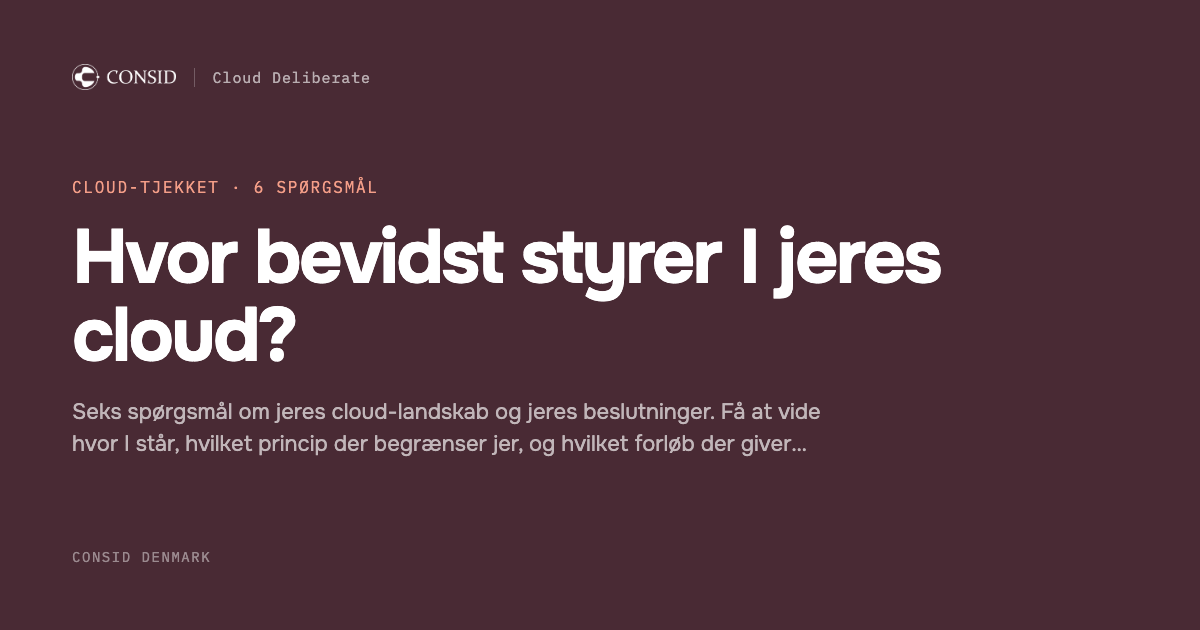
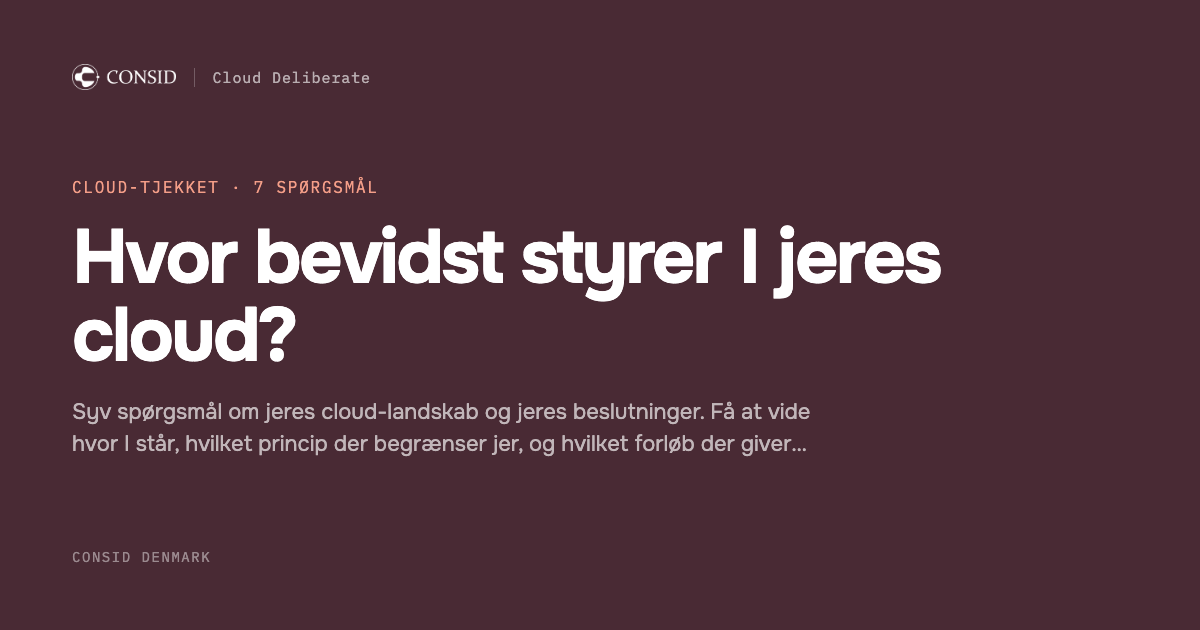
Ask which cloud platforms they run, as the first step of the tjek
A new multi-select step opens the flow: Azure, AWS, Google Cloud,
private/hosted, other providers, and "Ingen, vi kører ikke i cloud
endnu". It is not scored. Which platforms a team runs says nothing
about how deliberate they are, but it segments the lead and it catches
the ones who have not started, who answer everything else differently.

"Ingen" is mutually exclusive with the rest in both directions, and
because a team with no cloud has no landscape to overskue, the
Workshop result gets its own wording for them.

Scoring now selects answers by axis rather than by slice position,
since index 0 is no longer a scored question. Multi-select uses real
checkboxes for keyboard and screen-reader semantics, toggling syncs
in place rather than re-rendering so focus stays on the box, and the
step needs a Videre button because a multi-select cannot know when
you are done.

Platforms move out of the lead form, where they were free text, into
the payload as an array plus a uses_cloud boolean.

Changed region(s): [[0.0617, 0.6333, 0.6783, 0.6937]]

diff --git a/assets/tjek.js b/assets/tjek.js
@@ -36,6 +36,26 @@
 
   const QUESTIONS = [
     {
+      // Not scored. Which platforms a team runs says nothing about how
+      // deliberate they are, but it segments the lead and it catches the
+      // ones who have not started yet, who answer the rest differently.
+      type: 'multi',
+      axis: null,
+      text: 'Hvilke cloud-platforme bruger I i dag?',
+      hint: 'Vælg alle der passer.',
+      options: [
+        'Microsoft Azure',
+        'Amazon Web Services',
+        'Google Cloud',
+        'Privat eller hosted cloud, fx VMware eller OpenStack',
+        'Andre udbydere, fx Oracle eller IBM',
+        'Ingen, vi kører ikke i cloud endnu'
+      ],
+      // The last option contradicts every other one, so picking it clears
+      // the rest and picking any other clears it.
+      exclusive: 5
+    },
+    {
       axis: 'eksponering',
       text: 'Hvor stor en del af jeres it-landskab kører i public cloud i dag?',
       options: [
@@ -128,6 +148,9 @@
       quadrant: 'Begrænset eksponering, få bevidste valg',
       title: 'I er tidligt nok til at sætte kursen billigt',
       body: 'Jeres cloud-landskab er stadig til at overskue. Det er det bedste tidspunkt at blive enige om, hvordan beslutningerne skal træffes, mens det koster timer frem for migreringer.',
+      // Someone who has not started at all has no landscape to overskue,
+      // so the same recommendation needs different words.
+      bodyUdenCloud: 'I er ikke begyndt endnu, og det er den billigste plads at træffe beslutningerne fra. I kan nå at blive enige om, hvad der skal i cloud, hvad der ikke skal, og hvordan I vil afgøre det, før der ligger noget I skal flytte igen.',
       ydelse: { navn: 'Cloud Deliberate Arkitektur-workshop', timer: '14 timer', href: '../ydelser/arkitektur-workshop.html' }
     },
     ingen: {
@@ -140,9 +163,16 @@
 
   const AXIS_LABELS = ['Lav', 'Begrænset', 'Betydelig', 'Høj'];
 
+  // Selected by axis, not by position: the platform step sits at index 0
+  // and is not scored, so slicing would quietly shift every axis by one.
+  const onAxis = (answers, axis) => QUESTIONS
+    .map((q, i) => ({ q, a: answers[i] }))
+    .filter(x => x.q.axis === axis);
+
   function computeScores(answers) {
-    const exposure = answers.slice(0, 2);
-    const aware = answers.slice(2, 6);
+    const exposure = onAxis(answers, 'eksponering').map(x => x.a);
+    const awareQs = onAxis(answers, 'bevidsthed');
+    const aware = awareQs.map(x => x.a);
     // Exposure is a plain reading of scale, so it rounds. Deliberateness
     // floors: a team is only as deliberate as the practice it is weakest
     // at, and a flattering score here would waste everyone's meeting.
@@ -150,16 +180,18 @@
     const bevidsthed = Math.floor(aware.reduce((a, b) => a + b, 0) / aware.length);
 
     const lowest = Math.min.apply(null, aware);
-    const candidates = QUESTIONS.slice(2, 6)
-      .filter((q, i) => aware[i] === lowest)
-      .map(q => q.principle);
+    const candidates = awareQs.filter(x => x.a === lowest).map(x => x.q.principle);
     const limiting = PRINCIPLE_PRIORITY.filter(p => candidates.indexOf(p) !== -1)[0] || candidates[0] || null;
 
     let key;
     if (eksponering >= 2) key = bevidsthed >= 2 ? 'enablement' : 'assessment';
     else key = bevidsthed >= 2 ? 'ingen' : 'workshop';
 
-    return { eksponering, bevidsthed, limiting, key };
+    const platformQ = QUESTIONS.findIndex(q => q.type === 'multi');
+    const platforms = answers[platformQ].map(idx => QUESTIONS[platformQ].options[idx]);
+    const udenCloud = answers[platformQ].indexOf(QUESTIONS[platformQ].exclusive) !== -1;
+
+    return { eksponering, bevidsthed, limiting, key, platforms, udenCloud };
   }
 
   /* ---- Stage machine -------------------------------------------------- */
@@ -176,49 +208,98 @@
   /* ---- Quiz ------------------------------------------------------------ */
 
   let current = 0;
-  const answers = QUESTIONS.map(() => null);
+  const answers = QUESTIONS.map(q => q.type === 'multi' ? [] : null);
   const progressLab = document.getElementById('tjek-progress');
   const barFill = document.getElementById('tjek-bar');
   const backBtn = document.getElementById('tjek-back');
   const questionEl = document.getElementById('tjek-question');
+  const hintEl = document.getElementById('tjek-hint');
   const optionsEl = document.getElementById('tjek-options');
+  const nextBtn = document.getElementById('tjek-next');
+
+  const advance = () => {
+    if (current === QUESTIONS.length - 1) finishQuiz();
+    else { current += 1; renderQuestion(current); }
+  };
 
   function renderQuestion(i) {
     const q = QUESTIONS[i];
+    const multi = q.type === 'multi';
     progressLab.textContent = 'Spørgsmål ' + (i + 1) + ' af ' + QUESTIONS.length;
     barFill.style.width = ((i + 1) / QUESTIONS.length * 100) + '%';
     barFill.parentElement.setAttribute('aria-valuenow', String(i + 1));
     backBtn.hidden = i === 0;
     questionEl.textContent = q.text;
+    hintEl.textContent = q.hint || '';
+    hintEl.hidden = !q.hint;
     optionsEl.innerHTML = '';
+
     q.options.forEach((opt, idx) => {
-      const b = document.createElement('button');
-      b.type = 'button';
-      b.className = 'tjek__opt' + (answers[i] === idx ? ' is-selected' : '');
-      b.setAttribute('aria-pressed', String(answers[i] === idx));
-      const lab = document.createElement('span');
-      lab.className = 'tjek__opt__lab';
-      lab.textContent = ['A', 'B', 'C', 'D'][idx];
-      const txt = document.createElement('span');
-      txt.textContent = opt;
-      b.append(lab, txt);
-      b.addEventListener('click', () => selectAnswer(idx));
-      optionsEl.appendChild(b);
+      if (multi) {
+        const chosen = answers[i].indexOf(idx) !== -1;
+        const l = document.createElement('label');
+        l.className = 'tjek__opt tjek__opt--multi' + (chosen ? ' is-selected' : '');
+        const cb = document.createElement('input');
+        cb.type = 'checkbox';
+        cb.checked = chosen;
+        cb.value = String(idx);
+        const txt = document.createElement('span');
+        txt.textContent = opt;
+        l.append(cb, txt);
+        cb.addEventListener('change', () => toggleMulti(idx, cb.checked));
+        optionsEl.appendChild(l);
+      } else {
+        const b = document.createElement('button');
+        b.type = 'button';
+        b.className = 'tjek__opt' + (answers[i] === idx ? ' is-selected' : '');
+        b.setAttribute('aria-pressed', String(answers[i] === idx));
+        const lab = document.createElement('span');
+        lab.className = 'tjek__opt__lab';
+        lab.textContent = ['A', 'B', 'C', 'D'][idx];
+        const txt = document.createElement('span');
+        txt.textContent = opt;
+        b.append(lab, txt);
+        b.addEventListener('click', () => selectAnswer(idx));
+        optionsEl.appendChild(b);
+      }
     });
+
+    // A single-choice answer advances on its own. A multi-select cannot
+    // know when you are finished, so it needs a button.
+    nextBtn.hidden = !multi;
+    if (multi) nextBtn.disabled = answers[i].length === 0;
     questionEl.focus();
+  }
+
+  function toggleMulti(idx, checked) {
+    const q = QUESTIONS[current];
+    let picked = answers[current];
+    if (checked) {
+      // "Ingen" contradicts the rest, so it clears them and they clear it.
+      picked = idx === q.exclusive ? [idx] : picked.filter(x => x !== q.exclusive).concat(idx);
+    } else {
+      picked = picked.filter(x => x !== idx);
+    }
+    answers[current] = picked.sort((a, b) => a - b);
+    // Sync in place instead of re-rendering: a full render would move
+    // focus to the question heading, so a keyboard user would lose their
+    // place in the list on every tick.
+    [].forEach.call(optionsEl.children, (l, i) => {
+      const on = answers[current].indexOf(i) !== -1;
+      l.querySelector('input').checked = on;
+      l.classList.toggle('is-selected', on);
+    });
+    nextBtn.disabled = answers[current].length === 0;
   }
 
   function selectAnswer(score) {
     answers[current] = score;
     renderQuestion(current);
-    const advance = () => {
-      if (current === QUESTIONS.length - 1) finishQuiz();
-      else { current += 1; renderQuestion(current); }
-    };
     // A beat so the chosen answer registers before the question changes.
     if (REDUCED_TJEK) advance(); else setTimeout(advance, 190);
   }
 
+  nextBtn.addEventListener('click', () => { if (!nextBtn.disabled) advance(); });
   backBtn.addEventListener('click', () => { if (current > 0) { current -= 1; renderQuestion(current); } });
   document.getElementById('tjek-start').addEventListener('click', () => {
     current = 0;
@@ -233,10 +314,11 @@
   function finishQuiz() {
     scores = computeScores(answers);
     const r = RESULTS[scores.key];
+    const body = (scores.udenCloud && r.bodyUdenCloud) || r.body;
 
     root.querySelector('[data-quad]').textContent = r.quadrant;
     root.querySelector('[data-result-title]').textContent = r.title;
-    root.querySelector('[data-result-body]').textContent = r.body;
+    root.querySelector('[data-result-body]').textContent = body;
     root.querySelector('[data-axis-eksponering]').textContent = AXIS_LABELS[scores.eksponering];
     root.querySelector('[data-axis-bevidsthed]').textContent = AXIS_LABELS[scores.bevidsthed];
 
@@ -273,7 +355,7 @@
   root.querySelector('[data-to-form]').addEventListener('click', () => showStage('form'));
   root.querySelector('[data-restart]').addEventListener('click', () => {
     current = 0;
-    answers.fill(null);
+    QUESTIONS.forEach((q, i) => { answers[i] = q.type === 'multi' ? [] : null; });
     renderQuestion(0);
     showStage('quiz');
   });
@@ -284,8 +366,12 @@
   const errEl = document.getElementById('tjek-error');
   const submitBtn = document.getElementById('tjek-submit');
 
+  const answerText = (q, a) => {
+    if (q.type === 'multi') return a.length ? a.map(idx => q.options[idx]).join(', ') : '(ingen valgt)';
+    return a === null ? '(ubesvaret)' : q.options[a];
+  };
   const answerLines = () => QUESTIONS.map((q, i) =>
-    (i + 1) + '. ' + q.text + '\n   → ' + (answers[i] === null ? '(ubesvaret)' : q.options[answers[i]])).join('\n');
+    (i + 1) + '. ' + q.text + '\n   → ' + answerText(q, answers[i])).join('\n');
 
   function buildPayload() {
     const v = id => (document.getElementById(id).value || '').trim();
@@ -293,7 +379,8 @@
       company: v('tj-company'),
       role: v('tj-role'),
       cloud_spend: document.getElementById('tj-spend').value,
-      platforms: v('tj-platforms'),
+      platforms: scores.platforms,        // from the flow, not the form
+      uses_cloud: !scores.udenCloud,
       biggest_challenge: v('tj-challenge'),
       conversation_value: v('tj-value'),
       email: v('tj-email'),
@@ -320,7 +407,7 @@
       'Rolle: ' + (p.role || '—'),
       'E-mail: ' + p.email,
       'Cloud-forbrug: ' + p.cloud_spend,
-      'Platforme: ' + (p.platforms || '—'),
+      'Platforme: ' + (p.platforms.length ? p.platforms.join(', ') : '—'),
       'Største udfordring: ' + (p.biggest_challenge || '—'),
       'Hvad gør samtalen værdifuld: ' + (p.conversation_value || '—'),
       '',

diff --git a/cloud-tjek/index.html b/cloud-tjek/index.html
@@ -3,7 +3,7 @@
 <head>
 <meta charset="utf-8">
 <title>Cloud-tjekket — Cloud Deliberate — Consid</title>
-<meta name="description" content="Seks spørgsmål om jeres cloud-landskab og jeres beslutninger. Få at vide hvor I står, hvilket princip der begrænser jer, og hvilket forløb der giver mening. Under to minutter.">
+<meta name="description" content="Syv spørgsmål om jeres cloud-landskab og jeres beslutninger. Få at vide hvor I står, hvilket princip der begrænser jer, og hvilket forløb der giver mening. Under to minutter.">
 <meta name="viewport" content="width=device-width, initial-scale=1">
 <meta name="robots" content="noindex,nofollow">
 <link rel="canonical" href="https://frijec.github.io/cloud-deliberate/cloud-tjek/">
@@ -12,7 +12,7 @@
 <meta property="og:type" content="website">
 <meta property="og:site_name" content="Consid">
 <meta property="og:title" content="Cloud-tjekket — Cloud Deliberate — Consid">
-<meta property="og:description" content="Seks spørgsmål om jeres cloud-landskab og jeres beslutninger. Få at vide hvor I står, hvilket princip der begrænser jer, og hvilket forløb der giver mening. Under to minutter.">
+<meta property="og:description" content="Syv spørgsmål om jeres cloud-landskab og jeres beslutninger. Få at vide hvor I står, hvilket princip der begrænser jer, og hvilket forløb der giver mening. Under to minutter.">
 <meta property="og:url" content="https://frijec.github.io/cloud-deliberate/cloud-tjek/">
 <meta property="og:image" content="https://frijec.github.io/cloud-deliberate/assets/og/cloud-tjek.png">
 <meta property="og:image:width" content="1200">
@@ -21,7 +21,7 @@
 <meta property="og:locale" content="da_DK">
 <meta name="twitter:card" content="summary_large_image">
 <meta name="twitter:title" content="Cloud-tjekket — Cloud Deliberate — Consid">
-<meta name="twitter:description" content="Seks spørgsmål om jeres cloud-landskab og jeres beslutninger. Få at vide hvor I står, hvilket princip der begrænser jer, og hvilket forløb der giver mening. Under to minutter.">
+<meta name="twitter:description" content="Syv spørgsmål om jeres cloud-landskab og jeres beslutninger. Få at vide hvor I står, hvilket princip der begrænser jer, og hvilket forløb der giver mening. Under to minutter.">
 <meta name="twitter:image" content="https://frijec.github.io/cloud-deliberate/assets/og/cloud-tjek.png">
 <link rel="preconnect" href="https://fonts.googleapis.com">
 <link rel="preconnect" href="https://fonts.gstatic.com" crossorigin>
@@ -49,7 +49,7 @@
   <div class="wrap wrap--narrow">
     <a class="backlink backlink--light reveal" href="../#top"><span class="arw">←</span> Forsiden</a>
     <h1 class="reveal" style="font-size:var(--t-h2);max-width:20ch;margin-top:var(--s-5)">Hvor bevidst styrer I jeres cloud?</h1>
-    <p class="lead reveal" style="margin-top:var(--s-5)">Seks spørgsmål om jeres landskab og jeres beslutninger. I får at vide, hvad der begrænser jer lige nu, og hvilket forløb der giver mening. Det tager under to minutter.</p>
+    <p class="lead reveal" style="margin-top:var(--s-5)">Syv spørgsmål om jeres landskab og jeres beslutninger. I får at vide, hvad der begrænser jer lige nu, og hvilket forløb der giver mening. Det tager under to minutter.</p>
 
     <div id="tjek">
 
@@ -74,12 +74,16 @@
            whole stage a second time. -->
       <section class="tjek-stage" data-stage="quiz">
         <div class="tjek__head">
-          <span class="mono" id="tjek-progress">Spørgsmål 1 af 6</span>
+          <span class="mono" id="tjek-progress">Spørgsmål 1 af 7</span>
           <button class="tjek__back" type="button" id="tjek-back" hidden><span class="arw">←</span> Tilbage</button>
         </div>
-        <div class="tjek__bar" role="progressbar" aria-valuemin="1" aria-valuemax="6" aria-valuenow="1" aria-label="Fremdrift"><span id="tjek-bar"></span></div>
+        <div class="tjek__bar" role="progressbar" aria-valuemin="1" aria-valuemax="7" aria-valuenow="1" aria-label="Fremdrift"><span id="tjek-bar"></span></div>
         <h2 class="tjek__q" id="tjek-question" data-focus tabindex="-1"></h2>
+        <p class="tjek__hint" id="tjek-hint" hidden></p>
         <div class="tjek__opts" id="tjek-options"></div>
+        <div class="tjek-actions">
+          <button class="btn btn--primary" type="button" id="tjek-next" hidden>Videre <span class="arw">→</span></button>
+        </div>
       </section>
 
       <!-- 3. RESULT -->
@@ -147,7 +151,6 @@
                 <option value="Over 20 mio. kr.">Over 20 mio. kr.</option>
               </select>
             </div>
-            <div class="field field--full"><label for="tj-platforms">Hvilke cloud-platforme bruger I i dag?</label><textarea id="tj-platforms" name="platforms" rows="2" maxlength="2000"></textarea></div>
             <div class="field field--full"><label for="tj-challenge">Største cloud-udfordring lige nu</label><textarea id="tj-challenge" name="biggest_challenge" rows="3" maxlength="2000"></textarea></div>
             <div class="field field--full"><label for="tj-value">Hvad ville gøre en samtale værdifuld for jer?</label><textarea id="tj-value" name="conversation_value" rows="3" maxlength="2000"></textarea></div>
             <div class="field field--full"><label for="tj-email">Arbejds-e-mail<abbr title="påkrævet">*</abbr></label><input id="tj-email" name="email" type="email" autocomplete="email" maxlength="255" required></div>

diff --git a/assets/site.css b/assets/site.css
@@ -768,6 +768,7 @@ button{font:inherit;color:inherit;background:none;border:0;cursor:pointer}
 .tjek__q{font-size:clamp(1.35rem,2.6vw,2rem);letter-spacing:-.03em;font-weight:500;
   margin-top:var(--s-6);max-width:26ch}
 .tjek__q:focus-visible{outline:none}
+.tjek__hint{margin-top:var(--s-3);font-size:var(--t-small);color:var(--graphite)}
 .tjek__opts{display:flex;flex-direction:column;gap:var(--s-3);margin-top:var(--s-6)}
 .tjek__opt{display:flex;gap:var(--s-4);align-items:flex-start;text-align:left;width:100%;
   background:var(--surface);border:1px solid var(--hairline);border-radius:var(--r-md);
@@ -779,6 +780,23 @@ button{font:inherit;color:inherit;background:none;border:0;cursor:pointer}
 .tjek__opt.is-selected{background:var(--blush);border-color:var(--crimson)}
 .tjek__opt__lab{flex:none;font-family:var(--font-mono);font-size:var(--t-micro);letter-spacing:.09em;
   color:var(--crimson);padding-top:.15em}
+/* Multi-select uses a real checkbox rather than a button with
+   aria-pressed, so keyboard and screen readers get the semantics free.
+   appearance:none keeps it focusable while letting it be drawn to
+   match the rest of the card. */
+.tjek__opt--multi{cursor:pointer;align-items:center}
+.tjek__opt--multi:focus-within{border-color:var(--crimson);
+  outline:2px solid var(--crimson);outline-offset:3px}
+.tjek__opt--multi input[type="checkbox"]{
+  appearance:none;-webkit-appearance:none;flex:none;margin:0;width:20px;height:20px;
+  border:1.5px solid var(--stone);border-radius:6px;background:var(--surface);
+  display:grid;place-content:center;cursor:pointer;
+  transition:border-color var(--d-fast) var(--ease-out)}
+.tjek__opt--multi input[type="checkbox"]::before{
+  content:"";width:10px;height:10px;border-radius:3px;background:var(--crimson);
+  transform:scale(0);transition:transform var(--d-fast) var(--ease-spring)}
+.tjek__opt--multi input[type="checkbox"]:checked{border-color:var(--crimson)}
+.tjek__opt--multi input[type="checkbox"]:checked::before{transform:scale(1)}
 
 /* The 2x2. Deliberateness rises up the page, exposure grows to the
    right, so the cell a visitor lands in explains itself. */

diff --git a/ydelser/index.html b/ydelser/index.html
@@ -96,7 +96,7 @@
       <canvas class="ctacard__noise" aria-hidden="true"></canvas>
       <div class="ctacard__content">
         <h2 class="reveal">Ikke sikker på hvilket forløb der passer?</h2>
-        <p class="lead reveal">Tag cloud-tjekket, så peger vi på det forløb der passer til jeres landskab. Seks spørgsmål, under to minutter. Vil I hellere tale med et menneske, så book et afklarende møde på 30 minutter.</p>
+        <p class="lead reveal">Tag cloud-tjekket, så peger vi på det forløb der passer til jeres landskab. Syv spørgsmål, under to minutter. Vil I hellere tale med et menneske, så book et afklarende møde på 30 minutter.</p>
         <div class="ctacard__actions reveal">
           <a class="btn btn--primary" href="../cloud-tjek/">Tag cloud-tjekket <span class="arw">→</span></a>
           <a class="btn btn--onDark" href="../?ask=moede#kontakt">Book et afklarende møde</a>

diff --git a/copy.md b/copy.md
@@ -345,7 +345,7 @@ Vi bruger kun dine oplysninger til opfølgning. Intet nyhedsbrev, ingen tredjepa
 Cloud-tjekket — Cloud Deliberate — Consid
 
 **Meta description**
-Seks spørgsmål om jeres cloud-landskab og jeres beslutninger. Få at vide hvor I står, hvilket princip der begrænser jer, og hvilket forløb der giver mening. Under to minutter.
+Syv spørgsmål om jeres cloud-landskab og jeres beslutninger. Få at vide hvor I står, hvilket princip der begrænser jer, og hvilket forløb der giver mening. Under to minutter.
 
 ### Hvor bevidst styrer I jeres cloud?
 
@@ -356,7 +356,7 @@ Seks spørgsmål om jeres cloud-landskab og jeres beslutninger. Få at vide hvor
 Hvor bevidst styrer I jeres cloud?
 
 **Lead**
-Seks spørgsmål om jeres landskab og jeres beslutninger. I får at vide, hvad der begrænser jer lige nu, og hvilket forløb der giver mening. Det tager under to minutter.
+Syv spørgsmål om jeres landskab og jeres beslutninger. I får at vide, hvad der begrænser jer lige nu, og hvilket forløb der giver mening. Det tager under to minutter.
 
 **Kicker**
 Ingen ydelse
@@ -389,7 +389,7 @@ Vi placerer jer på to akser: hvor meget cloud fylder hos jer, og hvor bevidst b
 Spring over, book direkte
 
 **Kicker**
-Spørgsmål 1 af 6
+Spørgsmål 1 af 7
 
 **Kicker**
 Eksponering
@@ -520,7 +520,7 @@ Læs mere →
 Ikke sikker på hvilket forløb der passer?
 
 **Lead**
-Tag cloud-tjekket, så peger vi på det forløb der passer til jeres landskab. Seks spørgsmål, under to minutter. Vil I hellere tale med et menneske, så book et afklarende møde på 30 minutter.
+Tag cloud-tjekket, så peger vi på det forløb der passer til jeres landskab. Syv spørgsmål, under to minutter. Vil I hellere tale med et menneske, så book et afklarende møde på 30 minutter.
 
 **Button**
 Tag cloud-tjekket →
